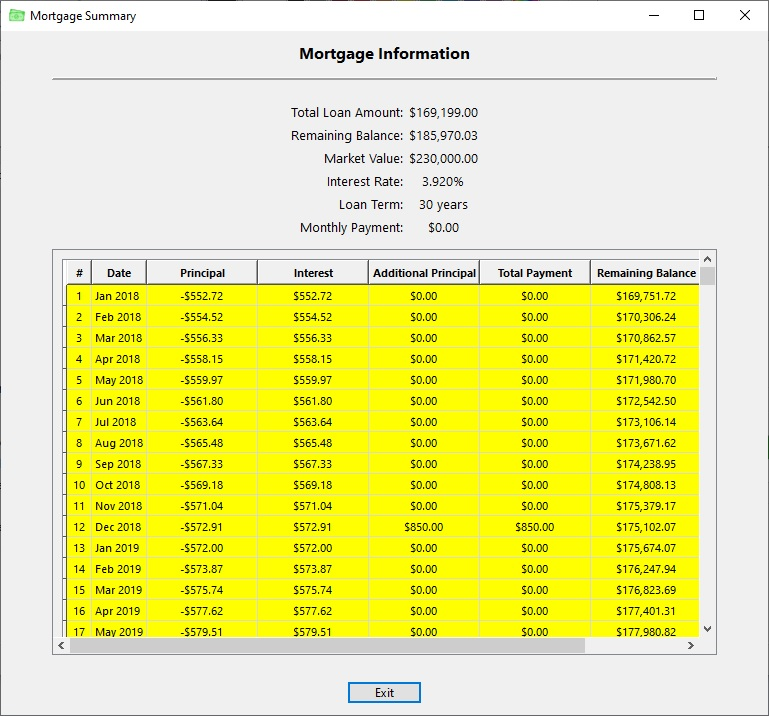
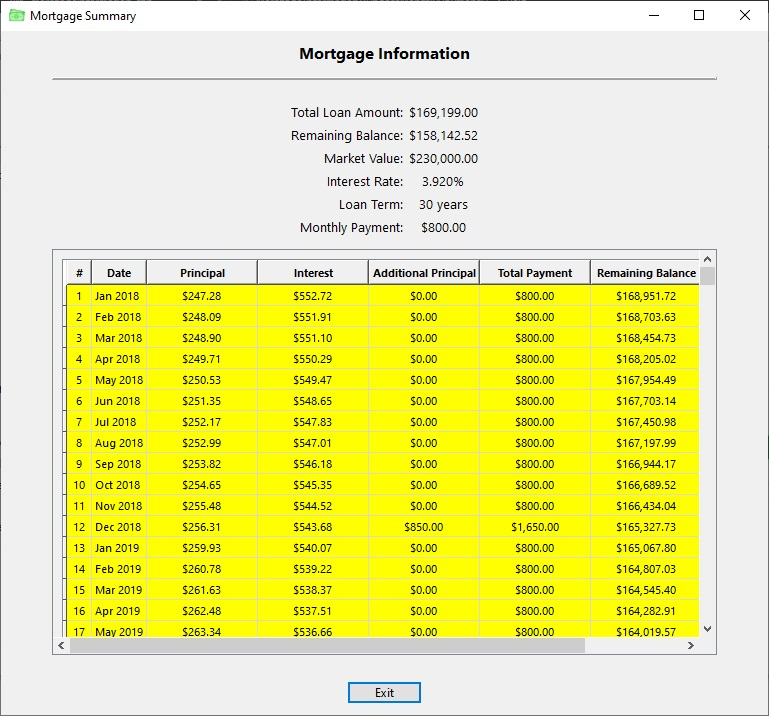
Resolved a bug in the calculation for mortgage base payment.

diff --git a/CashFlowManager/Mortgage/mortgageinformation.cpp b/CashFlowManager/Mortgage/mortgageinformation.cpp
@@ -21,7 +21,6 @@ MortgageInformation::MortgageInformation
     loanStartDate(startDate)
 {
     updateMonthlyPayment();
-    updateMortgageInitialized();
 }
 
 MortgageInformation::~MortgageInformation() = default;
@@ -33,6 +32,8 @@ void MortgageInformation::addPrincipalPayment(const MortgagePrincipalPayment& pa
 
 void MortgageInformation::updateMonthlyPayment()
 {
+    updateMortgageInitialized();
+
     if(mortgageInitialized)
     {
         monthlyPayment = totalLoanAmount * (monthlyInterestRate * pow((1.0 + monthlyInterestRate), (loanTerm * 12.0))) / (pow((1.0 + monthlyInterestRate), (loanTerm * 12.0)) - 1.0);
@@ -58,7 +59,6 @@ void MortgageInformation::setTotalLoanAmount(double amount)
 {
     totalLoanAmount = amount;
     updateMonthlyPayment();
-    updateMortgageInitialized();
 }
 
 void MortgageInformation::setInterestRate(double rate)
@@ -66,13 +66,11 @@ void MortgageInformation::setInterestRate(double rate)
     interestRate = rate / 100.0;
     monthlyInterestRate = interestRate / 12.0;
     updateMonthlyPayment();
-    updateMortgageInitialized();
 }
 
 void MortgageInformation::setLoanTerm(int term)
 {
     loanTerm = term;
     updateMonthlyPayment();
-    updateMortgageInitialized();
 }
 
